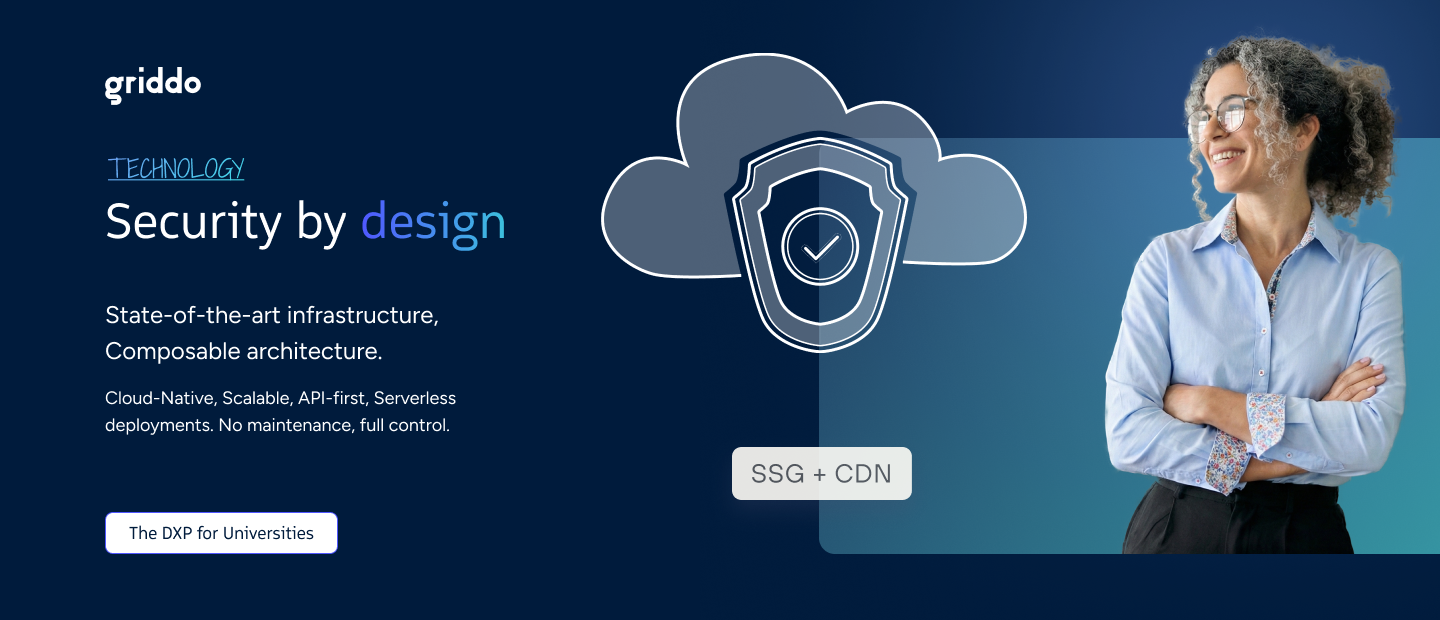
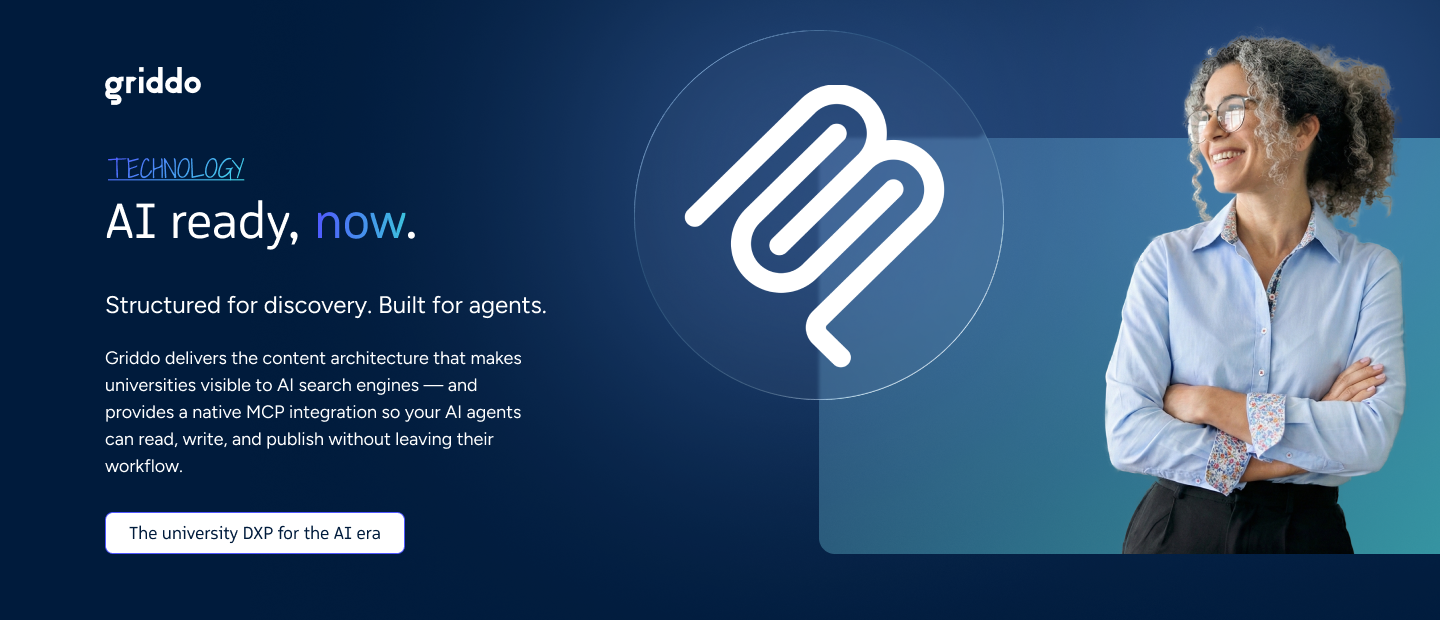
docs(profile) Update content with AI-era positioning and new assets

diff --git a/profile/llms.md b/profile/llms.md
@@ -1,148 +1,177 @@
-# Griddo is the Digital Experience Platform for Higher Education
+# Griddo — AI-Ready DXP for Higher Education
 
 ![Griddo Logo](https://griddo.io/images/logo-for-github.png)
 
-**Griddo** is a no-code **Digital Experience Platform (DXP)** designed exclusively for Universities. Built on a **MACH (Microservices, API, Cloud, Headless)** architecture, Griddo empowers universities to manage digital assets, create websites, and publish content with unparalleled ease and efficiency. Deployed in the Edge, it's serverless infrastructure offers maximun security and performance.
+## AI Ready. Now.
+### Structured for discovery. Built for agents.
 
-Griddo streamlines content management, enhances brand consistency, and reduces time to market by up to 50%, and speeds up the steps from content to publication by x10.
+Griddo delivers the content architecture that makes universities visible to AI search engines — and ships a native MCP server so your agents can create, edit, and publish directly inside the platform.
 
-> "Griddo is allowing us to publish at a rate I couldn't imagine. Compared to our previous Wordpress, we are publishing programs x10 faster."
+---
+
+**Griddo** is a no-code **Digital Experience Platform (DXP)** designed exclusively for universities. Built on a **MACH (Microservices, API, Cloud, Headless)** architecture, Griddo empowers universities to manage digital assets, create websites, and publish content with ease and efficiency. Deployed at the edge, its serverless infrastructure offers maximum security and performance.
+
+Griddo streamlines content management, enhances brand consistency, and reduces time to market by up to 50% — speeding up the path from content to publication by 10x.
+
+> "Griddo is allowing us to publish at a rate I couldn't imagine. Compared to our previous WordPress, we are publishing programs x10 faster."
 > — Pablo Landaluce, Communications Manager @ CUNEF Universidad
 
-Trusted by leading private Universities like:
+Trusted by leading private universities:
 - [IE University](https://ie.edu)
-- [Universidad Europea](https://universidadeuropea.com) 
+- [Universidad Europea](https://universidadeuropea.com)
 - [Universidad Pontificia de Comillas](https://comillas.edu)
 - [Universidad de Nebrija](https://nebrija.com)
-- [CUNEF](https://cunef.edu) 
+- [CUNEF](https://cunef.edu)
 - [Universidad Católica del Maule](https://ucm.cl)
 - [IPAM](https://www.ipam.pt)
 - [IADE](https://www.iade.europeia.pt)
 - [Centro de Estudios Garrigues](https://www.centrogarrigues.com/)
 
-----
+---
 
 ## Table of Contents
 - [Why Griddo?](#why-griddo)
 - [Key Features](#key-features)
+- [Scalability](#scalability)
 - [Benefits for Higher Education](#benefits-for-higher-education)
 - [How It Works](#how-it-works)
 - [Get Started](#get-started)
-- [Contributing](#contributing)
 - [License](#license)
+
+---
 
 ## Why Griddo?
 
-Griddo is purposed-made for universities and educational institutions seeking a modern, user-friendly platform to manage multiple websites, landing pages, and events. Griddo's no-code interface, AI-driven tools, and modular design make it ideal for cross-functional teams, including marketing, content, communications, and research without requiring programming expertise. Griddo's extremely easy-to-use editor provides a fantastic and intuitive Author Experience. Griddo’s MACH architecture ensures scalability, security, and high performance, making it a robust choice for institutions of all sizes.
+Griddo is a GEO-optimized DXP built to deliver content that AI engines discover and cite — and that AI agents can act on. With a native MCP server, your agents can read, write, and publish directly inside Griddo, extending the author experience beyond the UI and into your own workflows.
 
-Additionally, Griddo is the only DXP with a fully brand-tailored Design System at its heart, which guarantees that all content created with Griddo will adhere to the university's visual identity.
+Purpose-made for universities and educational institutions seeking a modern, user-friendly platform to manage multiple websites, landing pages, and events. Griddo's no-code interface, AI-driven tools, and modular design make it ideal for cross-functional teams — marketing, content, communications, and research — without requiring programming expertise.
 
-> "Griddo is very intuitive platform that allows us to scale our many web projects easily. Its modular structure gives us absolute autonomy to manage digital assets."  
+Additionally, Griddo is the only DXP with a fully brand-tailored Design System at its heart, guaranteeing that all content created with Griddo adheres to the university's visual identity.
+
+> "Griddo is a very intuitive platform that allows us to scale our many web projects easily. Its modular structure gives us absolute autonomy to manage digital assets."
 > — Sara Hontoria, Centro de Estudios Garrigues
+
+---
 
 ## Key Features
 
-- **No-Code Interface**: Build and manage pages with a drag-and-drop builder, instant previews in any device resolution, and no coding required.
+- **No-Code Interface**: Build and manage pages with a drag-and-drop builder, instant previews at any device resolution, and no coding required.
 - **Modular Design System**: Create flexible, responsive layouts with reusable modules, ensuring brand consistency across all sites and landing pages.
 - **AI-Powered Tools**:
   - Automatic image tagging
   - SEO meta tag generation
   - Multilingual translations
   - Content personalization with Griddo Personal Experience (GPX)
-- **Multi-Site Management**: Centralize control of multiple websites, landing pages,news, events, and faculty profiles with content reuse capabilities. Structure all your marketing campaing in one interface.
+- **Multi-Site Management**: Centralize control of multiple websites, landing pages, news, events, and faculty profiles with content reuse capabilities. Structure all your marketing campaigns in one interface.
 - **MACH Architecture**:
-  - Microservices: Modular components for flexibility.
-  - API-First: Seamless integrations with tools like HubSpot, Salesforce, and Google Analytics.
-  - Cloud-Based: Leverages Edge Computing and Serverless for scalability and security.
-  - Headless: Supports modern front-end frameworks (e.g., React, Node.js).
+  - **Microservices:** Independent services that manage internal and external integrations across your institution
+  - **API-first:** A RESTful API combined with internal GraphQL handles content delivery and service integration
+  - **Cloud-native:** Fully managed SaaS on AWS — secure, scalable, and always up to date
+  - **Headless:** Use Griddo as your content hub regardless of your front end
+  - **MCP Server:** Connect your AI agents to Griddo and run reports, analysis, and bulk tasks directly from your workflow
 - **Cloud Native Infrastructure**:
-    - Serverless deployment for enhanced security and reliablity
-    - Reduced maintenane costs
-    - Increased scalability
-    - Edge performance
-- **SEO and Performance**: Generates bot-readable static HTML, optimizes load times, and achieves top Core Web Vitals scores.
+  - Serverless deployment for enhanced security and reliability
+  - Reduced maintenance costs
+  - Increased scalability
+  - Edge performance
+- **SEO and GEO Performance**: Generates bot-readable static HTML, optimizes load times, and achieves top Core Web Vitals scores. Content architecture optimized for AI search engine discovery and citation (GEO).
 - **Role-Based Collaboration**: Assign permissions for SEO, analytics, content, and design teams, with traceability for external collaborators.
 - **Digital Asset Management**: Griddo Images optimizes media handling for efficient content workflows.
-- **Integrations**: Griddo can be integrated with any system in the university, SIS, CRMs or ERPs
-    - **CRM**
-        - Salesforce CRM
-        - Zoho CRM
-        - MS Dynamics
+- **Integrations**: Connect with any system. Data stays in sync, everywhere.
+  Griddo's API-first architecture connects to any system your institution already runs — SIS, CRM, LMS, analytics platforms, and external data sources. RESTful and GraphQL APIs handle bi-directional data flow, so a change in one system propagates across your entire digital ecosystem automatically. One unified data layer. Every team working from the same source of truth.
+  - **CRM:** Salesforce, Zoho CRM, MS Dynamics
+  - **LMS:** Moodle, Canvas
+  - **Analytics:** Google Analytics, Hotjar
+  - **University Systems:** SIS, ERP
 
 ### Featuring:
+
 - **Griddo Live Preview**
-From a blank canvas to a live page, design and publish your content seamlessly with Griddo's intuitive Live Preview editor, offering a true 'what you see is what you get' experience. No need to publish or upload to a test environment anymore. With Griddo Live Preview, streamlined to provide an excelent Author Experience, you won't fit the content to a predefined template, you'll craft the new page to shape your story. 
-    - Modular approach: easily drag and drop modules
-    - Check the results in any predefined breakpoint
-    - Share the progress with a quick-link
-    - Validate that the SEO structure is right
-    - Check everythng is ready to publish in the **Error Panel**
+  From a blank canvas to a live page, design and publish your content seamlessly with Griddo's intuitive Live Preview editor — a true 'what you see is what you get' experience. No need to publish or upload to a test environment. With Griddo Live Preview, you won't fit content to a predefined template; you'll craft the page to shape your story.
+  - Modular approach: easily drag and drop modules
+  - Check results at any predefined breakpoint
+  - Share progress with a quick-link
+  - Validate the SEO structure
+  - Check everything is ready to publish in the **Error Panel**
 
-- **Griddo Form Builder**   
-    - Create Forms with the data fields you need, right form the editor
-    - Add Form to any webpage
-    - Connect with the CRM or a Google Sheet
+- **Griddo Form Builder**
+  - Create forms with the data fields you need, right from the editor
+  - Add forms to any webpage
+  - Connect with your CRM or a Google Sheet
 
-- **Griddo AI Serch**     
-    - Smart search over all the content of the web ecosystem
-    - Personalize the results
-    - Personalize the SERP with AI overviews
+- **Griddo AI Search**
+  - Smart search over all content in the web ecosystem
+  - Personalize the results
+  - Personalize the SERP with AI overviews
 
 - **Griddo Design System**
-    - Fully customizable 
-    - Parametrized tokens for University visual brand guidelines
-    - Themes to adapt to any brand structure
-    - Adaptive modules with rich variants
+  - Fully customizable
+  - Parameterized tokens for university visual brand guidelines
+  - Themes to adapt to any brand structure
+  - Adaptive modules with rich variants
 
-- **Griddo File Drive**     
-    - Manage all your PDFs and digital-paper forms in one place
-    - Organize your documents in folders with granular permissions
-    - Replace documents and keep the page links. 
+- **Griddo File Drive**
+  - Manage all your PDFs and digital documents in one place
+  - Organize documents in folders with granular permissions
+  - Replace documents and keep page links intact
 
-- **Griddo Image Galery - Digital Assets Manager**     
-    - Manage all your images forms in one place
-    - Auto optimization of formats (webp, avif,...)
-    - Audit image use, pero page.
-    - Replace images and keep the page links. 
-    - Auto tagging
+- **Griddo Image Gallery — Digital Asset Manager**
+  - Manage all your images in one place
+  - Auto-optimization of formats (WebP, AVIF, ...)
+  - Audit image use per page
+  - Replace images and keep page links intact
+  - Auto tagging
+
+---
+
+## Scalability
+
+Universities run some of the most complex digital environments in any sector — hundreds of sites, thousands of pages, multiple languages, dozens of independent departments. Griddo already operates at that scale, managing each institution's full digital ecosystem from a single platform. That same architecture extends horizontally across content volume and vertically across infrastructure demand, backed by AWS auto-scaling and a microservices design built to absorb institutional-scale load without compromising performance.
+
+---
 
 ## Benefits for Higher Education
 
 - **Faster Content Creation**: Publish websites and landing pages 10x faster, reducing time to market by 50%.
 - **Brand Consistency**: Embedded design system ensures a cohesive visual identity across all digital assets.
-- **Team Autonomy**: Empowers non-technical teams to create and update content without IT bottlenecks.
+- **Team Autonomy**: Empowers non-technical teams to create and update content with full control.
 - **Scalability**: Supports 93+ websites and 68,000+ pages, as used by 13 institutions and 519 active users.
-- **SEO Excellence**: AI-driven SEO tools and fast load times improve search rankings and user experience.
-- **Integration Flexibility**: Connects with existing tools in the marketing stack (e.g., Hotjar, Google Analytics, Maps) to streamline workflows.
+- **SEO and GEO Excellence**: AI-driven SEO tools, fast load times, and GEO-optimized content architecture improve search rankings — in both traditional and AI-powered search engines.
+- **Integration Flexibility**: Connects with existing tools in the marketing stack (Hotjar, Google Analytics, Maps) to streamline workflows.
+- **Agent-Ready**: Native MCP server enables AI agents to read, write, and publish content directly in Griddo.
 
-> "Griddo’s framework is fast, flexible, and secure, offering optimal performance for SEO and load times."  
+> "Griddo's framework is fast, flexible, and secure, offering optimal performance for SEO and load times."
 > — Alejandro Alonso, Head of SEO @ Universidad Europea
+
+---
 
 ## How It Works
 
 1. **Design**: Use the intuitive drag-and-drop builder to create pages with modular components, ensuring 100% responsive designs.
-2. **Manage**: Centralize content (e.g., news, events, faculty profiles) across multiple sites with reusable modules.
-3. **Enhance**: Leverage AI tools for automated image tagging, translations, and SEO optimization.
+2. **Manage**: Centralize content (news, events, faculty profiles) across multiple sites with reusable modules.
+3. **Enhance**: Use AI tools for automated image tagging, translations, and SEO optimization.
 4. **Collaborate**: Assign roles to marketing, content, and design teams for seamless teamwork.
 5. **Publish**: Deploy content instantly with real-time previews, optimized for performance and accessibility.
 
-**Technical Details**: Griddo is built on TypeScript, Node.js, and React, using a Serverless Cloud infrastructure for high performance and scalability.
+**Technical Details**: Griddo is built on TypeScript, Node.js, and React, using a serverless cloud infrastructure for high performance and scalability.
+
+---
 
 ## Get Started
 
 1. **Explore Griddo**: Visit [https://griddo.io](https://griddo.io) to learn more and request a demo.
-2. **Check new Releases and our Roadmap**: Visit our [Releases Page](https://griddo.io/releases/) to learn what's comming
-3. **Access Documentation**: Check out the [official documentation](https://griddo.io/docs) for setup guides and tutorials. <!-- Replace with actual docs URL if available -->
-3. **Check it working**: Visit our [Playgroud University](https://play.griddo.io) to experience what can be done
-4. **Contact Support**: Reach out via [Griddo’s support mail](mailto://support.griddo.io)
+2. **Check new releases and our roadmap**: Visit our [Releases Page](https://griddo.io/releases/) to learn what's coming.
+3. **Access documentation**: Check out the [official documentation](https://griddo.io/docs) for setup guides and tutorials.
+4. **Check it working**: Visit our [Playground University](https://play.griddo.io) to experience what can be done.
+5. **Contact Support**: Reach out via [Griddo's support mail](mailto:support@griddo.io)
 
 > **Note**: For pricing details, contact Griddo directly at [https://griddo.io](https://griddo.io).
 
+---
 
 ## License
 
-This repository is licensed under the [GNU General Public License v3.0](./LICENSE). Content from [https://griddo.io](https://griddo.io) is © 2025 Griddo Digital S.L. All rights reserved.
+This repository is licensed under the [GNU General Public License v3.0](./LICENSE). Content from [https://griddo.io](https://griddo.io) is © 2026 Griddo Digital S.L. All rights reserved.
 
 ---
-*Generated on July 30, 2025, at 03:05 PM CEST*
-
+*Updated May 2026*

diff --git a/profile/README.md b/profile/README.md
@@ -1,29 +1,68 @@
 
-[Platform](https://griddo.io) | [Releases](https://griddo.io/en/releases/) | [Roadmap](https://griddo.io/en/upcoming) | [Support](https://griddo.io/en/support) 
+
 
 ![Griddo Hero](../assets/griddo-github-hero.png)
 
-# The Digital Expereince Platform for Universities
+# The university DXP for the AI era
 
-Griddo is a DXPpbuild around a modern MACH architecture
-- Microservices: manage the integration of information and serveces, both internal and external to the University
-- API: Our API Restful combined with an internal GraphQL handle the integration with all the services and the components. 
+[Platform](https://griddo.io) | [Releases](https://griddo.io/en/releases/) | [Roadmap](https://griddo.io/en/upcoming) | [Support](https://griddo.io/en/support) 
 
-- Cloud: We leverage the cloud to offer a SaaS experience
-- Headless: Griddo can your as your content Hub for all your needs regardless of the font end
+## AI Ready. Now.
+
+Griddo is a GEO-optimized DXP built to deliver content that AI engines 
+discover and cite — and that AI agents can act on. With a native MCP 
+server, your agents can read, write, and publish directly inside Griddo, 
+extending the author experience beyond the UI and into your own workflows.
+
+Built on a modern MACH architecture:
+
+- **Microservices:** Independent services that manage internal and external 
+  integrations across your institution
+- **API-first:** A RESTful API combined with internal GraphQL handles content 
+  delivery and service integration
+- **Cloud-native:** Fully managed SaaS on AWS — secure, scalable, and always 
+  up to date
+- **Headless:** Use Griddo as your content hub regardless of your front end
+- **MCP Server:** Connect your AI agents to Griddo and run reports, analysis, 
+  and bulk tasks directly from your workflow
 
 ![Griddo Security](../assets/griddo-github-security.png)
 
+## Enterprise security
 Our architecture is created to deliver Security by Design
 
 We deliver to the web with a SSG aproach to minimize the surface of attacks and maximize performance
 
 - No DDoS, no SQL injections
 - Edge delivery right to the CDN with WAF protection
+- Role-based permissions (RBAC) 
 
-![Griddo Security](../assets/griddo-github-integration.png)
+With role-based permissions (RBAC) and a built-in Governance App, administrators define exactly who can publish, edit, or review content — ensuring compliance and accountability across every team.
 
-Connect with any system and automaticaly udapte data everywhere
+![Griddo Scalability](../assets/griddo-github-scalability.png)
+
+## Hexagonal Architecture
+
+Universities run some of the most complex digital environments in any 
+sector — hundreds of sites, thousands of pages, multiple languages, 
+dozens of independent departments. Griddo already operates at that 
+scale, managing each institution's full digital ecosystem from a single 
+platform. That same architecture extends horizontally across content 
+volume and vertically across infrastructure demand, backed by AWS 
+auto-scaling and a microservices design built to absorb 
+institutional-scale load without compromising performance.
+
+
+![Griddo Integrations](../assets/griddo-github-integration.png)
+
+## Connect with any system. Data stays in sync, everywhere.
+
+Griddo's API-first architecture connects to any system your institution 
+already runs — SIS, CRM, LMS, analytics platforms, and external data 
+sources. RESTful and GraphQL APIs handle bi-directional data flow, so a 
+change in one system propagates across your entire digital ecosystem 
+automatically. One unified data layer. Every team working from the same 
+source of truth.
 
 **Explore Griddo**: Visit [https://griddo.io](https://griddo.io) to learn more and request a demo.
 
